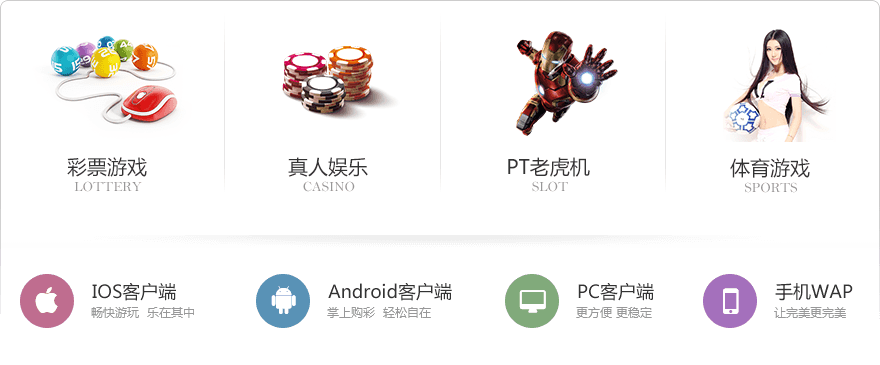
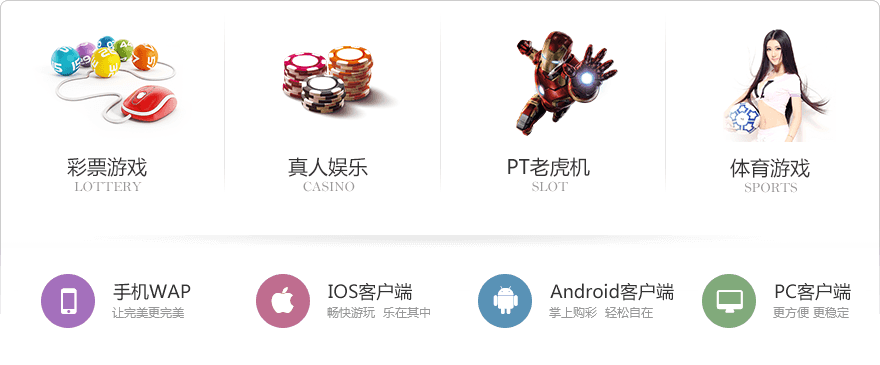
abc

Changed region(s): [[0.2761, 0.7534, 0.767, 0.9041], [0.0, 0.7534, 0.2148, 0.9041], [0.7977, 0.7534, 0.9818, 0.9041]]

diff --git a/global-forehead_fh/src/apps/main/bettingCenter/views/bettingCenter.js b/global-forehead_fh/src/apps/main/bettingCenter/views/bettingCenter.js
@@ -280,9 +280,9 @@ var BettingCenterView = Base.ItemView.extend({
       },
       onOverMax: function(maxNum) {
         Global.ui.notification.show(
-          '您填写的倍数已超出平台限定的单注中奖限额<span class="text-blue">' +
+          '您填写的倍数已超出平台限定的单注中奖限额<span class="text-passion">' +
           _(self.rulesCollection.limitMoney).convert2yuan() + '</span>元，' +
-          '已为您计算出本次最多可填写倍数为：<span class="text-blue">' + maxNum + '</span>倍'
+          '已为您计算出本次最多可填写倍数为：<span class="text-passion">' + maxNum + '</span>倍'
         );
       }
     });
@@ -330,7 +330,7 @@ var BettingCenterView = Base.ItemView.extend({
 
     //目前只有韩国1.5分彩需要显示
 
-    if(planInfo.ticketId === 21) {
+    if(_([21, 24, 25]).contains(planInfo.ticketId)) {
       this.renderSpecialHoverNums(planInfo);
     }
 
@@ -422,7 +422,7 @@ var BettingCenterView = Base.ItemView.extend({
       this.infoModel.changeToUpdate();
     } else {
       if (this.$el.closest('html').length !== 0 && planInfo.sale && planInfo.lastPlanId !== planInfo.planId) {
-        Global.ui.notification.show('<span class="text-blue">' + planInfo.lastPlanId + '</span>期已截止<br/>当前期为<span class="text-blue">' + planInfo.planId + '</span>期<br/>投注时请注意期号！',{id:'ticketNotice'});
+        Global.ui.notification.show('<span class="text-passion">' + planInfo.lastPlanId + '</span>期已截止<br/>当前期为<span class="text-passion">' + planInfo.planId + '</span>期<br/>投注时请注意期号！',{id:'ticketNotice'});
       }
     }
   },

diff --git a/global-forehead_fh/src/apps/main/dashboard/templates/dashboard-ticketList.html b/global-forehead_fh/src/apps/main/dashboard/templates/dashboard-ticketList.html
@@ -51,31 +51,31 @@
         <span class="il5">
             <div>
                 <img src="~base/images/coming-soon.png" alt="">
-                <p>IOS客户端</p>
+                <p>手机WAP</p>
             </div>
         </span>
         <span class="il6">
             <div>
                 <img src="~base/images/coming-soon.png" alt="">
-                <p>Android客户端</p>
+                <p>IOS客户端</p>
             </div>
         </span>
         <span class="il7">
             <div>
                 <img src="~base/images/coming-soon.png" alt="">
-                <p>PC客户端</p>
+                <p>Android客户端</p>
             </div>
         </span>
         <span class="il8">
             <div>
                 <img src="~base/images/coming-soon.png" alt="">
-                <p>手机WAP</p>
+                <p>PC客户端</p>
             </div>
         </span>
     </div>
     <div class="index-right">
         <div class="js-rank-list winner-list"><ul class="js-winner-list-inner winner-list-inner"></ul></div>
-        <a href="#bb/ps" class="router">投注管家</a>
-        <!--<a href="javascript:void(0);">投注管家</a>-->
+        <!--<a href="#bb/ps" class="router">投注管家</a>-->
+        <a href="javascript:void(0);">投注管家</a>
     </div>
 </div>

diff --git a/global-forehead_fh/src/apps/main/bettingCenter/templates/bettingCenter.html b/global-forehead_fh/src/apps/main/bettingCenter/templates/bettingCenter.html
@@ -156,14 +156,14 @@
       <span class="js-bc-btn-lottery-add add-number hidden"><i class="fa fa-plus-circle"></i>添加号码</span>
       <span class="js-bc-btn-lottery-add1  add-number1 inline-block"> <i class="fa fa-plus-circle"></i>
         添加号码</span>
-      <a href="#bb/ps" class="router">
-        <i class="fa fa-group"></i>
-        投注管家
-      </a>
-      <!--<a href="javascript:void(0)">-->
+      <!--<a href="#bb/ps" class="router">-->
         <!--<i class="fa fa-group"></i>-->
         <!--投注管家-->
       <!--</a>-->
+      <a href="javascript:void(0)">
+        <i class="fa fa-group"></i>
+        投注管家
+      </a>
       <span class="js-bc-chase">
         <i class="fa fa-tags"></i>
         追号

diff --git a/global-forehead_fh/src/base/styles/_variable.scss b/global-forehead_fh/src/base/styles/_variable.scss
@@ -106,7 +106,7 @@ $font-warning: #e8675d !default;
 $font-light-pleasant: #fc9792 !default;
 $font-main: #e8675d !default;
 $font-inverse: $light-color;
-$font-passion: #fbd663 !default;
+$font-passion: #f08519 !default;
 
 $font-colors: (
   default: $dark-color,

diff --git a/global-forehead_fh/src/apps/components/countdown/index.js b/global-forehead_fh/src/apps/components/countdown/index.js
@@ -14,7 +14,7 @@ var Countdown = Base.PrefabView.extend({
     type: 'label',
     color: '',
     countdownAnimation: false,
-    animationTime: 10,
+    animationTime: 30,
     animationClass: 'twinkling text-hot',
     prevClass: 'js-pf'
   },

diff --git a/global-forehead_fh/src/apps/main/bettingCenter/misc/index.scss b/global-forehead_fh/src/apps/main/bettingCenter/misc/index.scss
@@ -1664,7 +1664,7 @@ $main-area-width: 870px;
     }
 
     th:first-child, td:first-child {
-      padding-left: 15px;
+      padding-left: 5px;
     }
   }
   .table {
